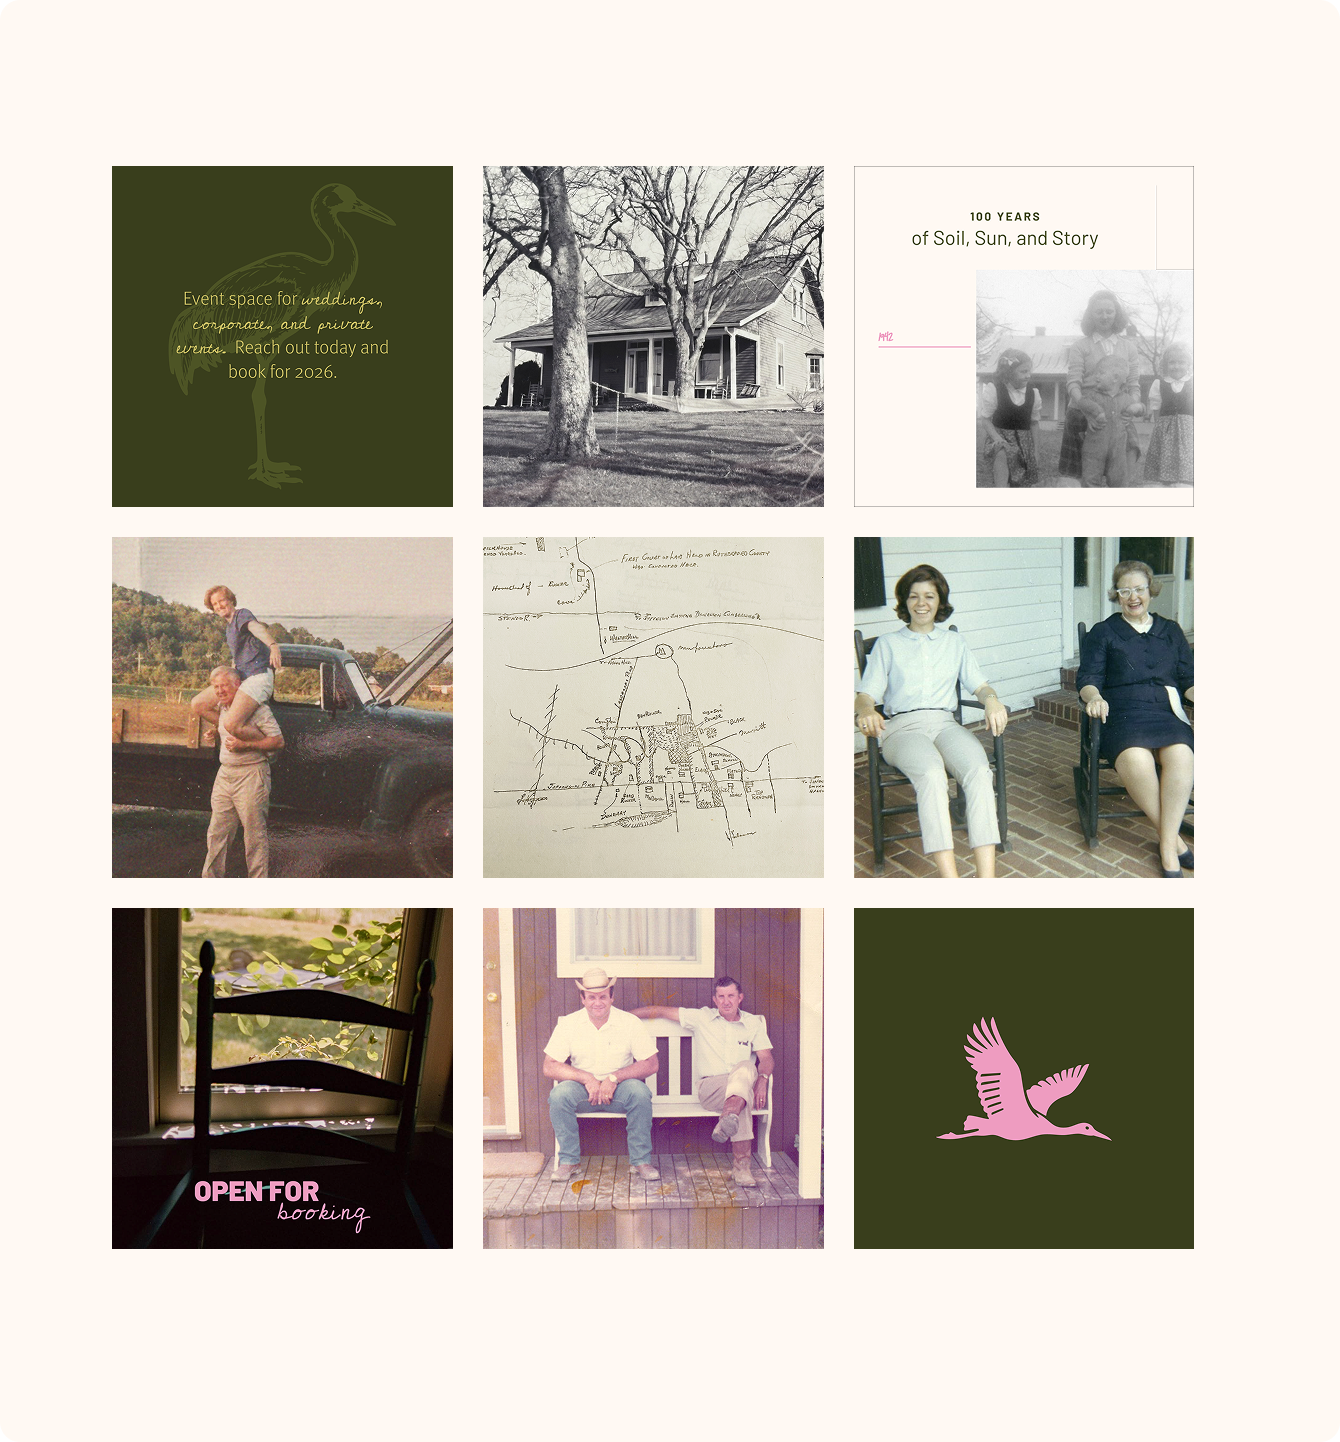
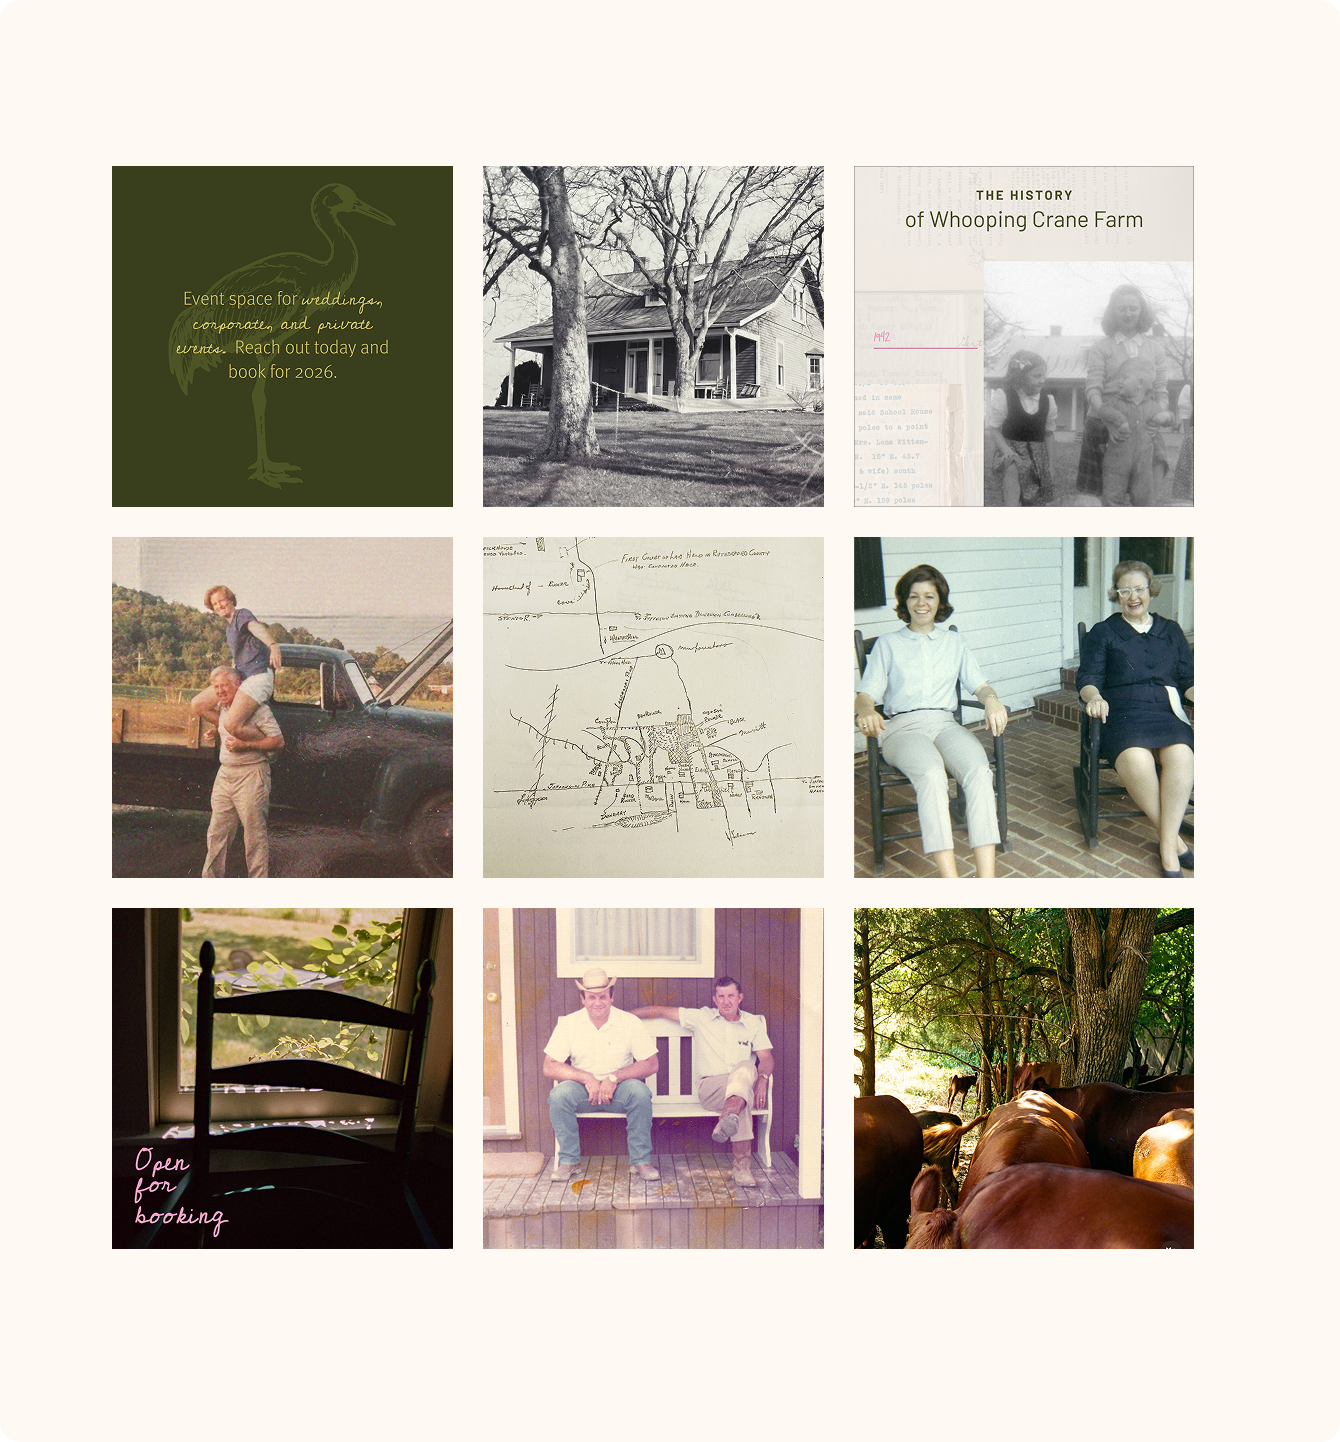
Push_5

Changed region(s): [[0.6119, 0.6241, 0.9179, 0.8738], [0.6425, 0.1248, 0.9179, 0.3745], [0.0918, 0.7802, 0.2448, 0.8738]]

diff --git a/whoopingcranefarm.html b/whoopingcranefarm.html
@@ -54,11 +54,19 @@
 <div class="project-overview">
   <div class="project-overview-title">
     <span class="first-line">Whooping Crane Farm</span><br>
-    As Digital Designer for Baked by Melissa, I designed daily newsletter campaigns aligned with product launches and seasonal campaigns, while also creating cohesive visual campaigns across paid social advertisements, print materials, and landing pages. I led the redesign of the newsletter layout and visual style that increased engagement and revenue.
+    Whooping Crane Farm, located in Nashville’s historic Bells Bend, is a 100-year-old family farm, event venue, and Airbnb.
+<br>
+<br>
+I was commissioned to craft the brand identity ahead of the venue launch. The challenge was to honor the enduring legacy and pastoral serenity of the century-old property while integrating a sophisticated, modern feel for high-end hospitality marketing.
   </div>
   <div class="project-overview-scope">
-    <span class="first-line">ROLE</span><br>
-    Brand Designer (Contract)
+    <span class="first-line">DELIVERABLES</span><br>
+    Brand Design <br>
+    Website Design <br>
+    Digital Design <br>
+    Packaging Design <br>
+    Logo Design <br>
+    UI/UX Design
   </div>
   <div class="project-overview-timeline">
     <span class="first-line">TIMELINE</span><br>
@@ -74,12 +82,18 @@
   <img src="Assets/WhoopingCraneFarm/Logos/LogoVariations.png" alt="Primary, secondary, and icon logos for Whooping Crane Farm">
 </div>
 
+<div class="project-page-image">
+  <img src="Assets/WhoopingCraneFarm/Illustrations/Illustrations.png" alt="Cow, crane, and blackberry illustrations">
+</div>
 
 <div class="project-info-text">
   <h2 class="project-info-text-title">Brand Design</h2>
   <p class="project-info-text-body">
-    I designed paid social ads for Instagram, TikTok, Pinterest, and Reddit to support ongoing campaigns and seasonal promotions. 
-</p>
+Tasked with rebranding this 100-year-old family farm into a premier event venue, my goal was to balance its enduring legacy with modern appeal.
+<br>
+<br>
+I anchored the identity in a custom color palette drawn from the Tennessee landscape, and designed custom etched illustrations of the farm's iconography, from the Whooping Crane, beef cattle, and the blackberries grown on the property. This system positions the brand as authentic yet sophisticated, making it ready for high-end hospitality.
+  </p>
 </div>
 
 <div class="project-page-image">
@@ -90,8 +104,8 @@
 <div class="project-info-text">
   <h2 class="project-info-text-title">Web Design</h2>
   <p class="project-info-text-body">
-    I designed paid social ads for Instagram, TikTok, Pinterest, and Reddit to support ongoing campaigns and seasonal promotions. 
-</p>
+The website's central objective is to function as a powerful lead generation tool for the new event venue. The design prioritizes a simple user journey: using warm photography and the farm's history to build emotional trust, then placing clear, direct calls-to-action like "Book Now" near essential venue details to drive immediate wedding and corporate inquiries.
+  </p>
 </div>
 
 <div class="project-page-image">
@@ -104,9 +118,9 @@
 </div>
 
 <div class="project-info-text">
-  <h2 class="project-info-text-title">Social</h2>
+  <h2 class="project-info-text-title">Social Strategy</h2>
   <p class="project-info-text-body">
-    I designed paid social ads for Instagram, TikTok, Pinterest, and Reddit to support ongoing campaigns and seasonal promotions. 
+   Social content prioritizes imagery of the property, the venue, and messaging on the opening of the venue to generate event leads. This is balanced by a content strategy that weaves in the 100-year history of the farm, utilizing archival photos, family anecdotes, and documents to build emotional connection and establish authenticity. 
 </p>
 </div>
 
@@ -117,8 +131,8 @@
 <div class="project-info-text">
   <h2 class="project-info-text-title">Print Materials and Merch</h2>
   <p class="project-info-text-body">
-    I designed paid social ads for Instagram, TikTok, Pinterest, and Reddit to support ongoing campaigns and seasonal promotions. 
-</p>
+The print and merchandise elements extend the brand's quality beyond the screen. I chose a textured stock for the business cards to create an immediate sense of warmth and authenticity when exchanged. In addition, I created functional items like the tote bag to carry jam jars after a day of picking blackberries, and a patch to lean into the brand’s humble and genuine character. 
+  </p>
 </div>
 
 <div class="project-page-image">
@@ -128,8 +142,7 @@
 <div class="project-info-text">
   <h2 class="project-info-text-title">Packaging</h2>
   <p class="project-info-text-body">
-    I designed paid social ads for Instagram, TikTok, Pinterest, and Reddit to support ongoing campaigns and seasonal promotions. 
-</p>
+  The farm's retail experience centers on the seasonal Blackberry Picking Operation, launching next year to invite visitors into the fields. To complete the experience, the farm sells jars of blackberry jam made on-site. I developed a cheeky label to be "slapped" onto the jars, giving customers a fun, memorable souvenir to take home.</p>
 </div>
 
 <div class="project-page-image">
@@ -159,7 +172,9 @@
   <script src="script.js" defer></script>
 
 <footer class="footer">
-  <img src="Assets/Logo/Logo.png" alt="Footer Logo" class="footer-logo">
+  <a href="index.html">
+  <img src="Assets/Logo/Star.png" alt="Footer Logo" class="footer-logo">
+</a>
 
   <div class="footer-links">
     <div class="footer-item">

diff --git a/itsasecret.html b/itsasecret.html
@@ -57,32 +57,69 @@
     As Digital Designer for Baked by Melissa, I designed daily newsletter campaigns aligned with product launches and seasonal campaigns, while also creating cohesive visual campaigns across paid social advertisements, print materials, and landing pages. I led the redesign of the newsletter layout and visual style that increased engagement and revenue.
   </div>
   <div class="project-overview-scope">
-    <span class="first-line">ROLE</span><br>
-    Digital Designer (Contract)
+    <span class="first-line">DELIVERABLES</span><br>
+    Logo Design<br>
+    Brand Guidelines<br>
+    Flyer Design <br>
+    Merch Design<br>
   </div>
   <div class="project-overview-timeline">
     <span class="first-line">TIMELINE</span><br>
-    January 2023 - Ongoing
+    January 2023 - June 2023
   </div>
 </div>
 
 
 
+<div class="hero-image-ias"></div>
+
+<div class="project-info-text">
+  <h2 class="project-info-text-title">Brand Design</h2>
+  <p class="project-info-text-body">
+I focused on making the design for It’s a Secret instantly recognizable and impactful. The look uses a sharp monochromatic base of black and off-white and is contrasted with a single, highly saturated red. Paired with clean, utilitarian typography, the final identity is grunge, yet refined.  </p>
+</div>
+
+<div class="project-page-image">
+  <img src="Assets/IAS/BrandGuidelines/BrandGuidelines.png" alt="Brand guidelines for It's a Secret">
+</div>
+
+<div class="project-info-text">
+  <h2 class="project-info-text-title">Flyer Design</h2>
+  <p class="project-info-text-body">
+  It’s a Secret threw events every few weeks. I was tasked with designing social media flyers that were bold and scroll-stopping while clearly communicating important details like time, place, and the performers.
+</p>
+</div>
+
+<div class="project-page-image">
+  <img src="Assets/IAS/Social/Social.png" alt="Social media flyers for It's a Secret">
+</div>
+
+<div class="project-info-text">
+  <h2 class="project-info-text-title">Merch Design</h2>
+  <p class="project-info-text-body">
+I designed a collection of merch, including a t-shirt, stickers, key chain, and notebook. The collection uses bold graphic placement and tactile quality to turn simple tokens into physical extensions of the brand's aesthetic.  </p>
+</div>
+
+<div class="project-page-image">
+  <img src="Assets/IAS/Merch/Merch.png" alt="Social media flyers for It's a Secret">
+</div>
+
+
 
 <div class="project-nav-footer">
-    <a href="bakedbymelissa.html" class="project-nav-btn project-nav-btn--previous">
+    <a href="whoopingcranefarm.html" class="project-nav-btn project-nav-btn--previous">
         <span class="project-nav-arrow">‹</span>
         <div class="project-nav-text-block">
             <div class="project-nav-descriptor">Previous project</div>
-            <div class="project-nav-name">Baked by Melissa</div>
+            <div class="project-nav-name">Whooping Crane Farm</div>
         </div>
     </a>
 
-    <a href="itsasecret.html" class="project-nav-btn project-nav-btn--next">
+    <a href="bakedbymelissa.html" class="project-nav-btn project-nav-btn--next">
         <span class="project-nav-arrow">›</span>
         <div class="project-nav-text-block">
             <div class="project-nav-descriptor">Next project</div>
-            <div class="project-nav-name">It's a Secret</div>
+            <div class="project-nav-name">Baked by Melissa</div>
         </div>
     </a>
 </div>
@@ -91,7 +128,9 @@
   <script src="script.js" defer></script>
 
 <footer class="footer">
-  <img src="Assets/Logo/Logo.png" alt="Footer Logo" class="footer-logo">
+  <a href="index.html">
+  <img src="Assets/Logo/Star.png" alt="Footer Logo" class="footer-logo">
+</a>
 
   <div class="footer-links">
     <div class="footer-item">

diff --git a/bakedbymelissa.html b/bakedbymelissa.html
@@ -57,8 +57,14 @@
     As Digital Designer for Baked by Melissa, I designed daily newsletter campaigns aligned with product launches and seasonal campaigns, while also creating cohesive visual campaigns across paid social advertisements, print materials, and landing pages. I led the redesign of the newsletter layout and visual style that increased engagement and revenue.
   </div>
   <div class="project-overview-scope">
-    <span class="first-line">ROLE</span><br>
-    Digital Designer
+    <span class="first-line">DELIVERABLES</span><br>
+    Newlsetter Design <br>
+    Paid Social Design <br>
+    Display Ads <br>
+    Web Landing Pages <br>
+    Homepage Banner Design <br>
+    Packaging Design <br>
+
   </div>
   <div class="project-overview-timeline">
     <span class="first-line">TIMELINE</span><br>
@@ -179,7 +185,9 @@ I designed static and video out-of-home ads for holiday campaigns, including Chr
   <script src="script.js" defer></script>
 
 <footer class="footer">
-  <img src="Assets/Logo/Logo.png" alt="Footer Logo" class="footer-logo">
+  <a href="index.html">
+  <img src="Assets/Logo/Star.png" alt="Footer Logo" class="footer-logo">
+</a>
 
   <div class="footer-links">
     <div class="footer-item">

diff --git a/stylesheet.css b/stylesheet.css
@@ -232,6 +232,18 @@ html, body {
   overflow: hidden;
 }
 
+.hero-image-ias {
+  width: 80%;
+  height: 500px;
+  margin: 0 auto;
+  background-image: url('Assets/IAS/Hero/Hero.png');
+  background-size: cover;
+  background-position: center;
+  background-repeat: no-repeat;
+  border-radius: 8px;
+  overflow: hidden;
+}
+
 .hero-image-wcf {
   width: 80%;
   height: auto; /* Let the image define height */
@@ -297,7 +309,7 @@ background: linear-gradient(90deg, #EF5CA0, #FCCB0A);
   display: grid;
   grid-template-columns: repeat(4, 1fr);
   gap: 20px;
-  width: 80%;
+  width: 90%;
   max-width: 1200px;
   align-items: start; 
 }
@@ -669,6 +681,12 @@ button:hover {
     width: 90%;
   }
 
+   .hero-image-ias {
+    background-image: url('Assets/IAS/Hero/Mobile-hero.png');
+    height: 350px;
+    width: 90%;
+  }
+
   .hero-image-wcf{
         width: 90%;
   }
@@ -893,4 +911,20 @@ button:hover {
     text-align: left;
   }
 
+}
+
+
+
+@media (min-width: 1200px) {
+  .project-info-text-title {
+    font-size: 1.6em; 
+  }
+
+  .project-info-text-body {
+    font-size: 1.1em; 
+  }
+
+  .nav-links a{
+    font-size: 18px;
+  }
 }

diff --git a/index.html b/index.html
@@ -76,7 +76,7 @@ A designer based in Brooklyn on a mission to make the world a little more beauti
     </div>
     <div class="project-item">
       <a href="itsasecret.html" class="project-link">
-        <img src="Assets/HomePage/Placeholder.png" alt="It's a Secret" class="project-image">
+        <img src="Assets/HomePage/Itsasecret.png" alt="It's a Secret" class="project-image">
         <h3 class="project-name">It's a Secret</h3>
       </a>
     </div>

diff --git a/about.html b/about.html
@@ -72,8 +72,10 @@
 
   <script src="script.js" defer></script>
 
-  <footer class="footer">
-    <img src="Assets/Logo/Star.png" alt="Footer Logo" class="footer-logo">
+<footer class="footer">
+  <a href="index.html">
+  <img src="Assets/Logo/Star.png" alt="Footer Logo" class="footer-logo">
+</a>
 
     <div class="footer-links">
       <div class="footer-item">

diff --git a/contact.html b/contact.html
@@ -76,7 +76,9 @@
   <script src="script.js" defer></script>
 
 <footer class="footer">
-  <img src="Assets/Logo/Logo.png" alt="Footer Logo" class="footer-logo">
+  <a href="index.html">
+  <img src="Assets/Logo/Star.png" alt="Footer Logo" class="footer-logo">
+</a>
 
   <div class="footer-links">
     <div class="footer-item">
